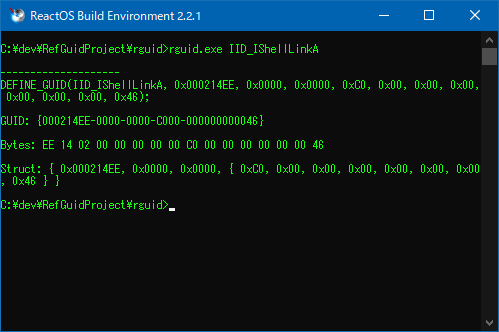
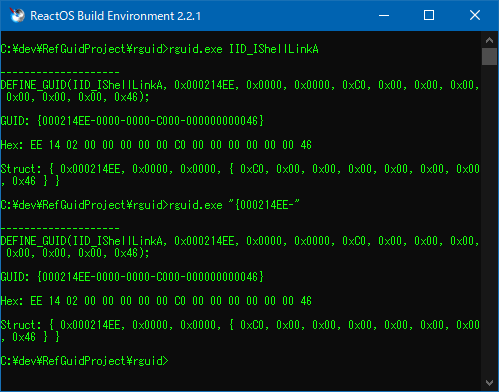
1.9.3

diff --git a/guid.hpp b/guid.hpp
@@ -10,7 +10,7 @@
 
 //////////////////////////////////////////////////////////////////////////////////////////////////
 
-#define GUID_VERSION "rguid version 1.9.2 by katahiromz"
+#define GUID_VERSION "rguid version 1.9.3 by katahiromz"
 
 //////////////////////////////////////////////////////////////////////////////////////////////////
 // GUID_ENTRY / GUID_DATA / GUID_FOUND

diff --git a/guid.cpp b/guid.cpp
@@ -469,7 +469,7 @@ std::wstring guid_dump(const GUID& guid, LPCWSTR name)
     ret += L"\n\n";
 
     auto hex_text = guid_to_hex_text(guid);
-    ret += L"Bytes: ";
+    ret += L"Hex: ";
     ret += hex_text;
     ret += L"\n\n";
 

diff --git a/README.md b/README.md
@@ -17,7 +17,7 @@ rguid --help
 rguid --version
 ```
 
-You can specify multiple GUIDs.
+You can specify partial GUIDs and multiple GUIDs.
 
 ## Screenshot
 
